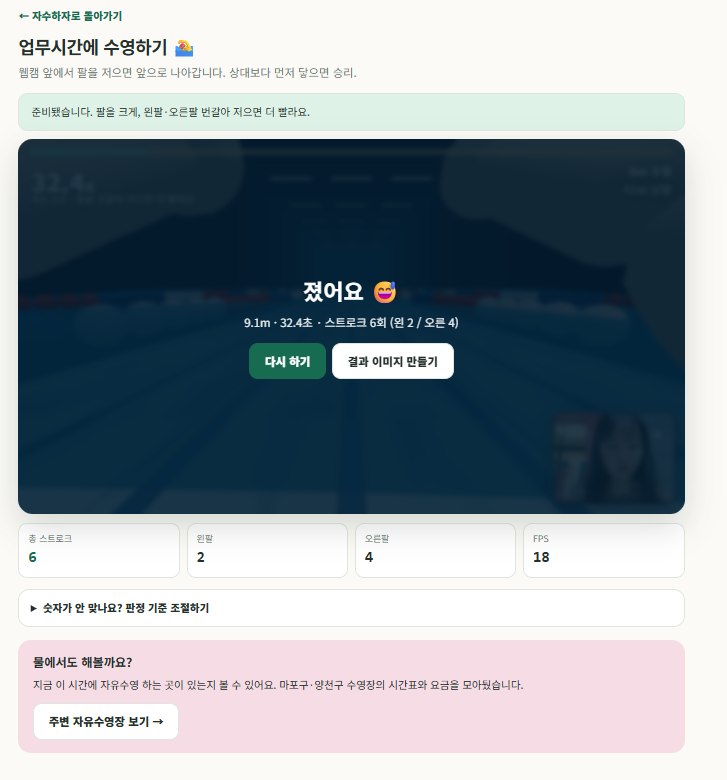
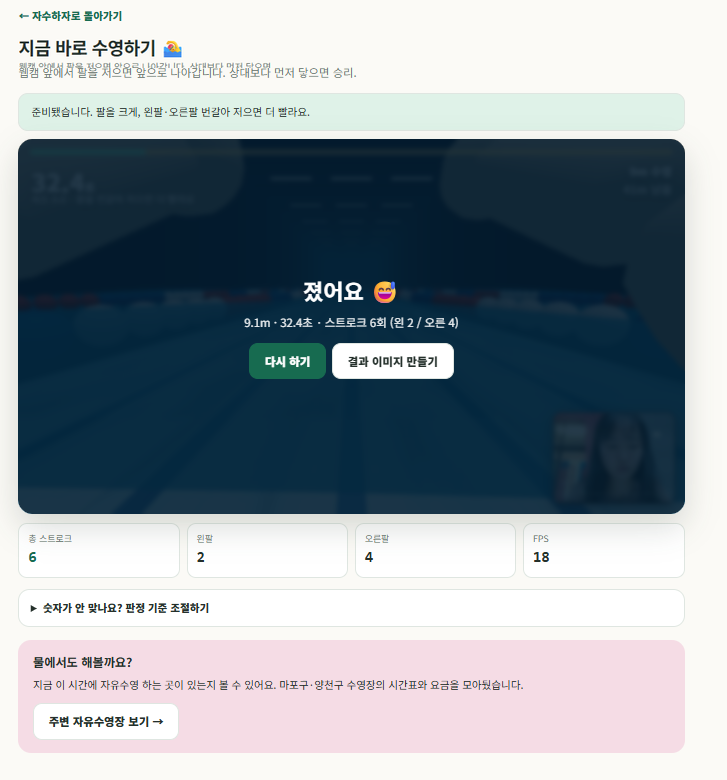
포트폴리오의 예전 문구와 캡처를 "지금 바로 수영하기"로 정리
메인 화면은 새로 찍고 강조 상자 위치를 맞췄다. 웹캠 플레이가 필요한
게임 결과 화면과 공유 카드는 같은 브라우저·글꼴로 제목 글자만 바꿔
넣었고, 예전 제목을 같은 방법으로 다시 그려 원본과 맞는지 먼저 확인했다.

Changed region(s): [[0.0303, 0.0308, 0.3631, 0.0923]]

diff --git a/portfolio/index.html b/portfolio/index.html
@@ -425,9 +425,8 @@ flowchart TD
 
   <h3>유입용 게임 — 네 단계로 만들고, 만들 때마다 재봤습니다</h3>
   <p>
-    “수영장 검색하세요”로는 사람을 부르기 어렵습니다. <strong>“업무시간에도 수영해볼까요?”</strong>로 먼저 부르고,
-    게임이 끝나면 지도로 넘기는 동선을 만들었습니다.
-    (지금은 문구를 <strong>“지금 바로 수영하기”</strong>로 바꿨습니다. 아래 캡처에는 예전 문구가 남아 있습니다.) 한 번에 만든 게 아니라
+    “수영장 검색하세요”로는 사람을 부르기 어렵습니다. <strong>“지금 바로 수영하기”</strong>로 먼저 부르고,
+    게임이 끝나면 지도로 넘기는 동선을 만들었습니다. 한 번에 만든 게 아니라
     <strong>단계마다 브라우저에서 확인하고 다음으로 넘어갔습니다.</strong>
   </p>
   <table>
@@ -682,7 +681,7 @@ flowchart TD
 
   <div class="verline">
     <figure>
-      <div class="shot"><img src="img/v5-메인-검색.png" alt="자수하자 메인 화면. 구·날짜·시간 검색 폼과 12곳 안내가 보인다"><i class="hl" data-n="1" style="left:4.4%;top:77.9%;width:47.6%;height:11.5%"></i><i class="hl" data-n="2" style="left:4.3%;top:90.3%;width:28.4%;height:3.6%"></i><i class="hl" data-n="3" style="left:69.0%;top:25.7%;width:28.6%;height:31.3%"></i></div>
+      <div class="shot"><img src="img/v5-메인-검색.png" alt="자수하자 메인 화면. 구·날짜·시간 검색 폼과 12곳 안내가 보인다"><i class="hl" data-n="1" style="left:5.8%;top:77.9%;width:38.6%;height:9.4%"></i><i class="hl" data-n="2" style="left:5.8%;top:87.8%;width:23.0%;height:3.1%"></i><i class="hl" data-n="3" style="left:68.2%;top:14.8%;width:28.4%;height:46.8%"></i></div>
       <figcaption><span class="badge after">v5 · 현재 · 메인</span>
         대상이 <strong>집에서 수영장으로</strong> 바뀌었습니다. <span class="hn">1</span> 구·날짜·시간 세 칸으로 검색하고, <span class="hn">2</span> <strong>12곳 · 운영 10곳 · 휴관 2곳</strong>을 처음부터 밝힙니다. <span class="hn">3</span> 노란 카드가 게임 입구입니다.
       </figcaption>

diff --git a/docs/작업기록.md b/docs/작업기록.md
@@ -1367,3 +1367,16 @@ new THREE.WebGLRenderer({ canvas, antialias:true, preserveDrawingBuffer:true })
 - 이어서 사용자 승인으로 게임 페이지도 맞췄다. `수영게임.html`의 탭 제목, 화면 맨 위 제목, 공유 카드 이미지 속 글씨, 공유할 때 제목 4곳을 `지금 바로 수영하기`로 바꿨다.
 - 포트폴리오 ② 게임 설명에는 그때의 문구를 기록으로 남기고, "지금은 문구를 '지금 바로 수영하기'로 바꿨고 아래 캡처에는 예전 문구가 남아 있다"는 한 줄을 덧붙였다.
 - 검증: `node scripts/검색정렬검증.cjs` 통과(게임 페이지 문법 포함).
+
+## 2026-10-04 — 포트폴리오에 남은 예전 문구("업무시간에…") 정리
+
+- 사용자 요청: 예전 문구가 남은 곳도 모두 고쳐 달라.
+- 포트폴리오 ② 게임 설명 문장의 "업무시간에도 수영해볼까요?"를 "지금 바로 수영하기"로 바꾸고, 바로 앞 작업에서 덧붙였던 "문구를 바꿨다"는 한 줄은 지웠다.
+- 캡처 3장을 바꿨다.
+  - **메인 화면(`v5-메인-검색.png`)**: 지금 사이트를 같은 크기(1176×786)로 새로 찍었다. 노란 카드가 커져서 강조 상자 3개의 위치도 새로 맞췄다.
+  - **게임 결과 화면(`game-v2-3D결과.png`)과 공유 카드(`game-공유카드.webp`)**: 웹캠으로 직접 플레이해야 나오는 화면이라 다시 찍을 수 없었다. 그래서 **제목 글자만** 지금 코드가 그리는 문구로 바꿔 넣었다. 거리·시간·스트로크 같은 기록은 실제 플레이 그대로다.
+- 글자를 바꿔 넣은 방법: 원래 화면을 그린 것과 같은 브라우저와 같은 글꼴 설정으로 새 제목을 그려 붙였다. 그 전에 **예전 제목을 같은 방법으로 다시 그려 원본과 겹쳐 보는 검증**을 했다.
+  - 공유 카드: 다시 그린 예전 제목과 원본의 차이가 0픽셀이었다. 제목 줄 밖은 한 픽셀도 바뀌지 않았다.
+  - 결과 화면: 원본 캡처가 약 0.81배로 줄여 저장된 것이어서, 새 제목도 같은 비율로 줄여 같은 자리에 붙였다. 크기·굵기·위치·이모지를 눈으로 대조해 확인했다.
+- 화면 없이 도는 Edge로 그리는 과정에서, Edge가 명령이 끝난 뒤에 파일을 써서 처음엔 실패한 것처럼 보였다. 사용자가 쓰는 Edge 창은 건드리지 않았고, 임시로 만든 `_tmp_render/` 폴더는 지웠다.
+- 검증: `index.html`·`수영게임.html`·`portfolio/index.html`에 남은 "업무시간" 0곳, `node scripts/검색정렬검증.cjs` 통과.
